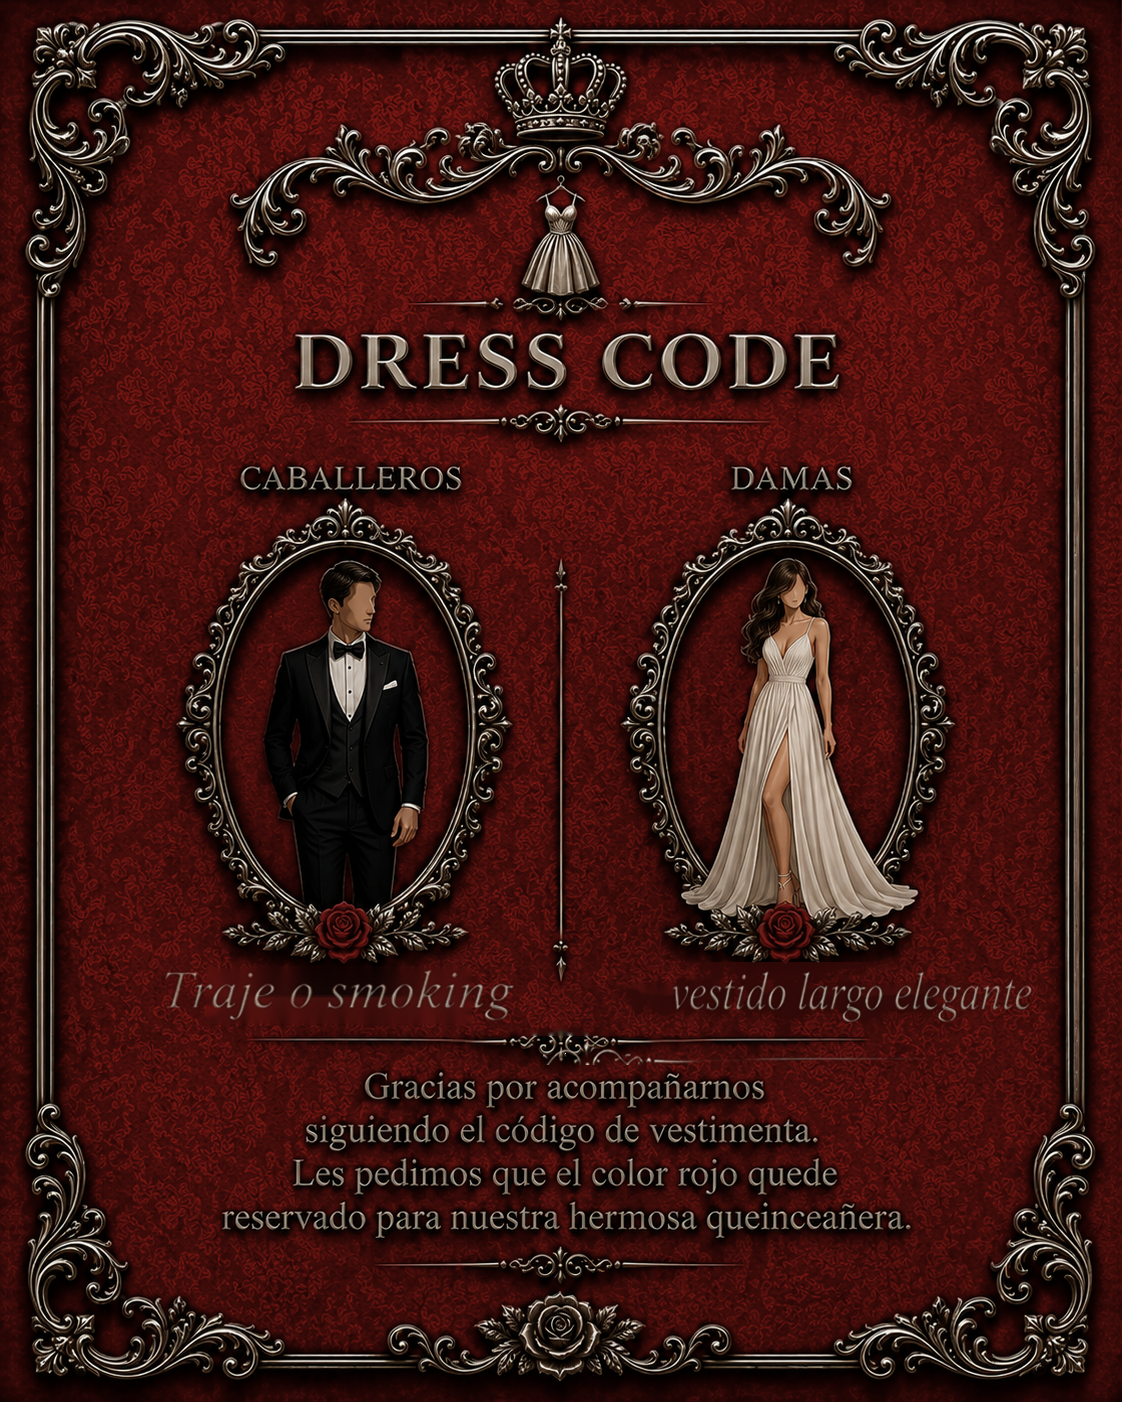
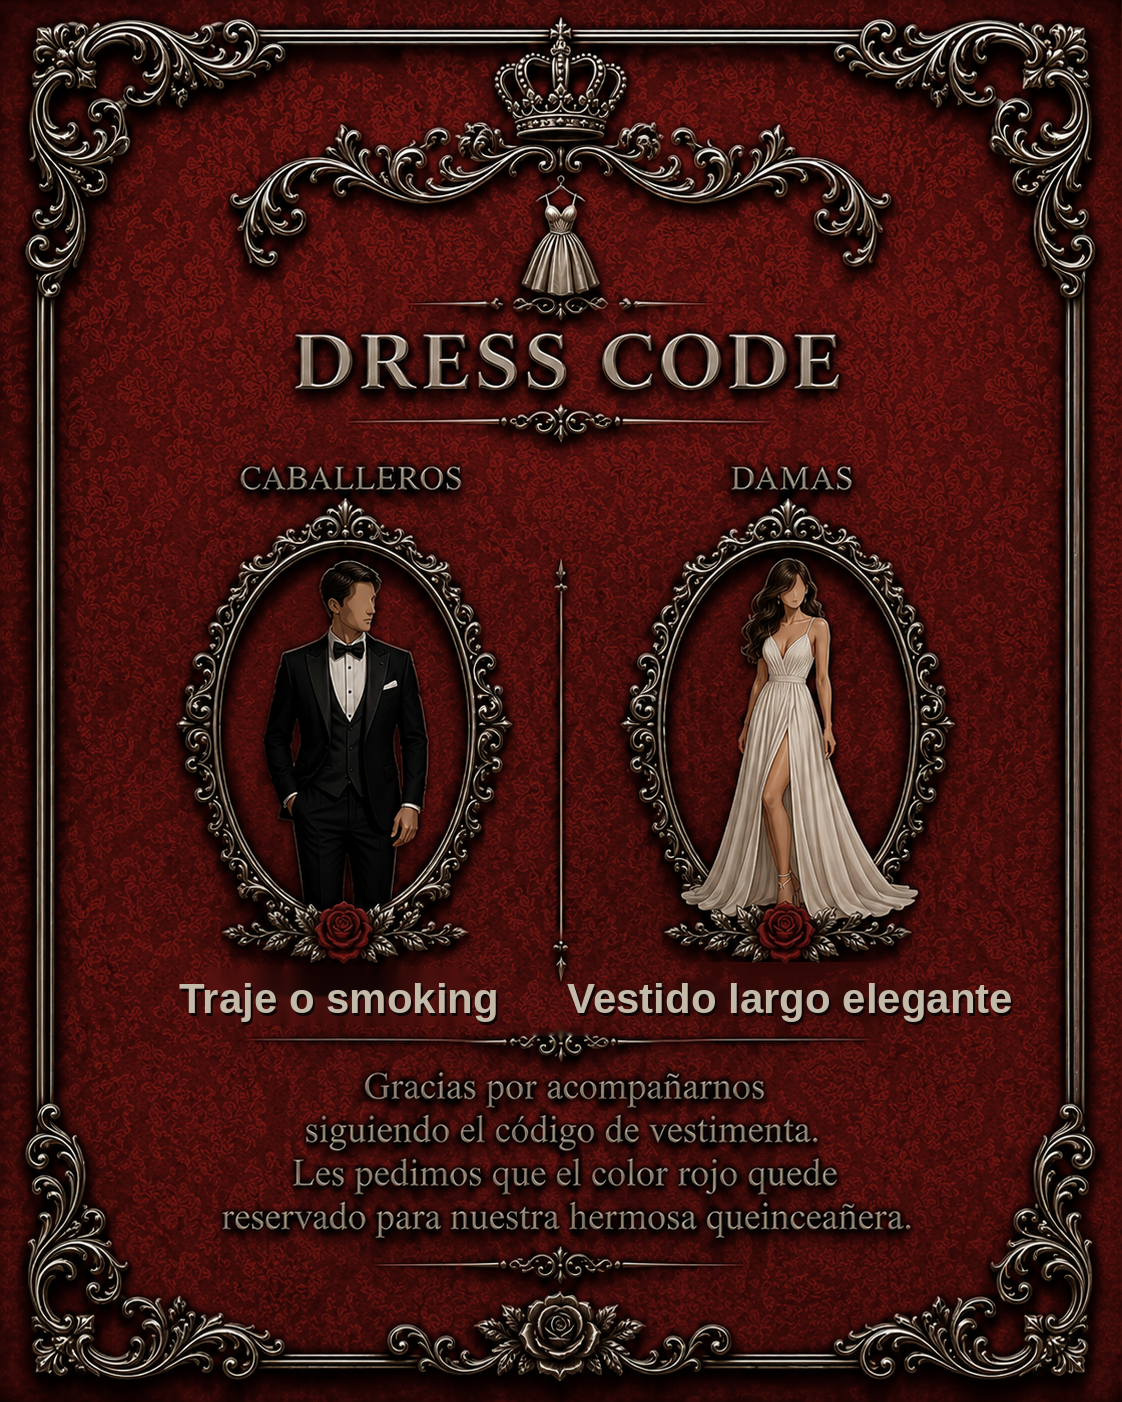
final final commit

Changed region(s): [[0.4991, 0.7054, 0.9046, 0.7668], [0.156, 0.6748, 0.4679, 0.7361]]

diff --git a/index.html b/index.html
@@ -415,7 +415,7 @@
     position: relative;
     width: 100%;
     aspect-ratio: 1103 / 1426;
-    background-image: url('itinerario_v10.png');
+    background-image: url('itinerario_v11.png');
     background-size: 100% 100%;
     background-repeat: no-repeat;
     border-radius: 6px;